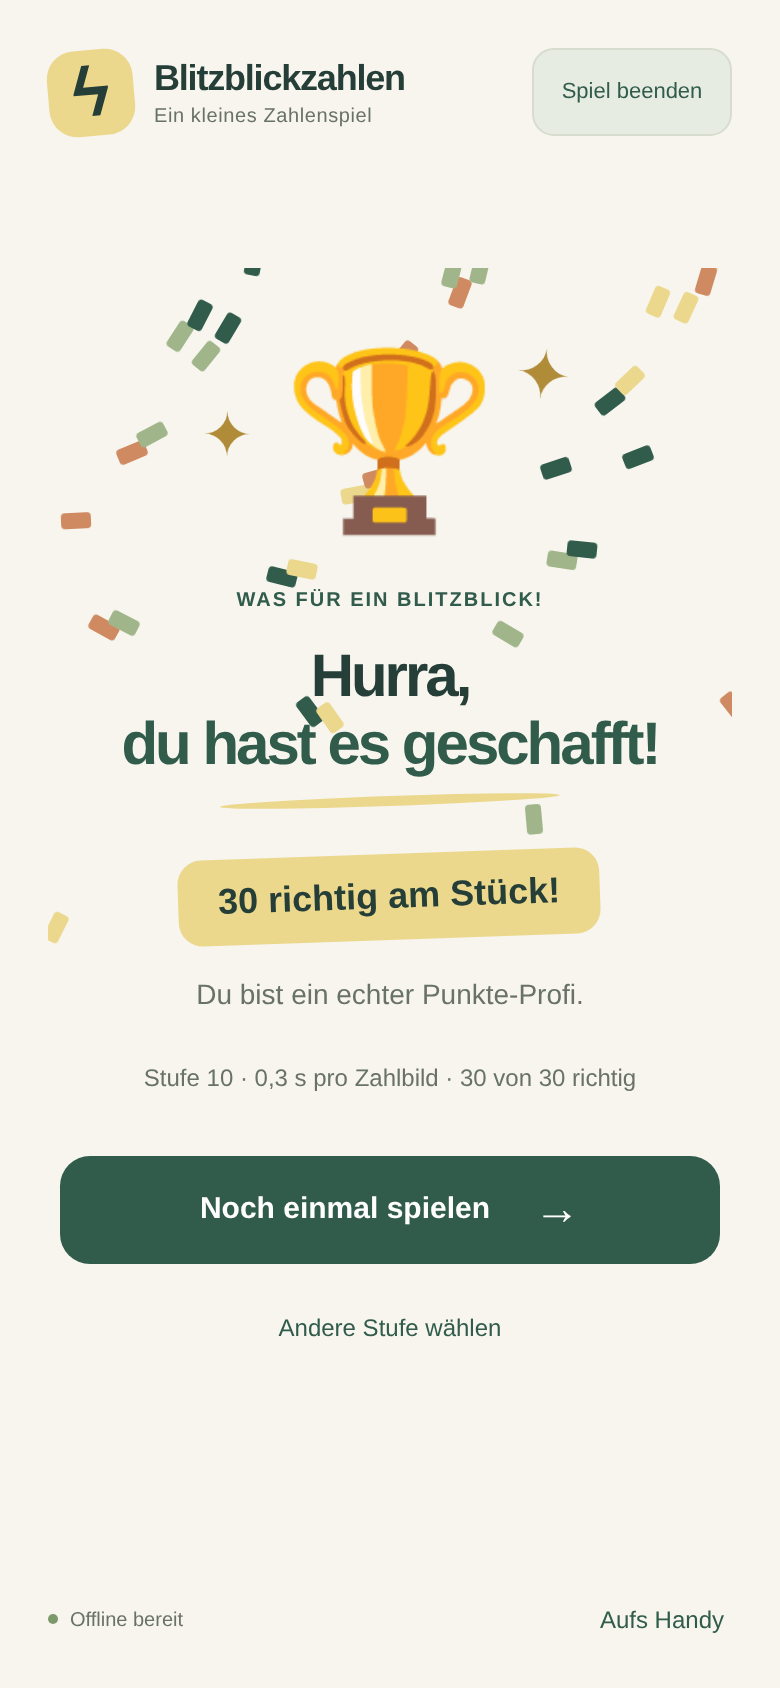
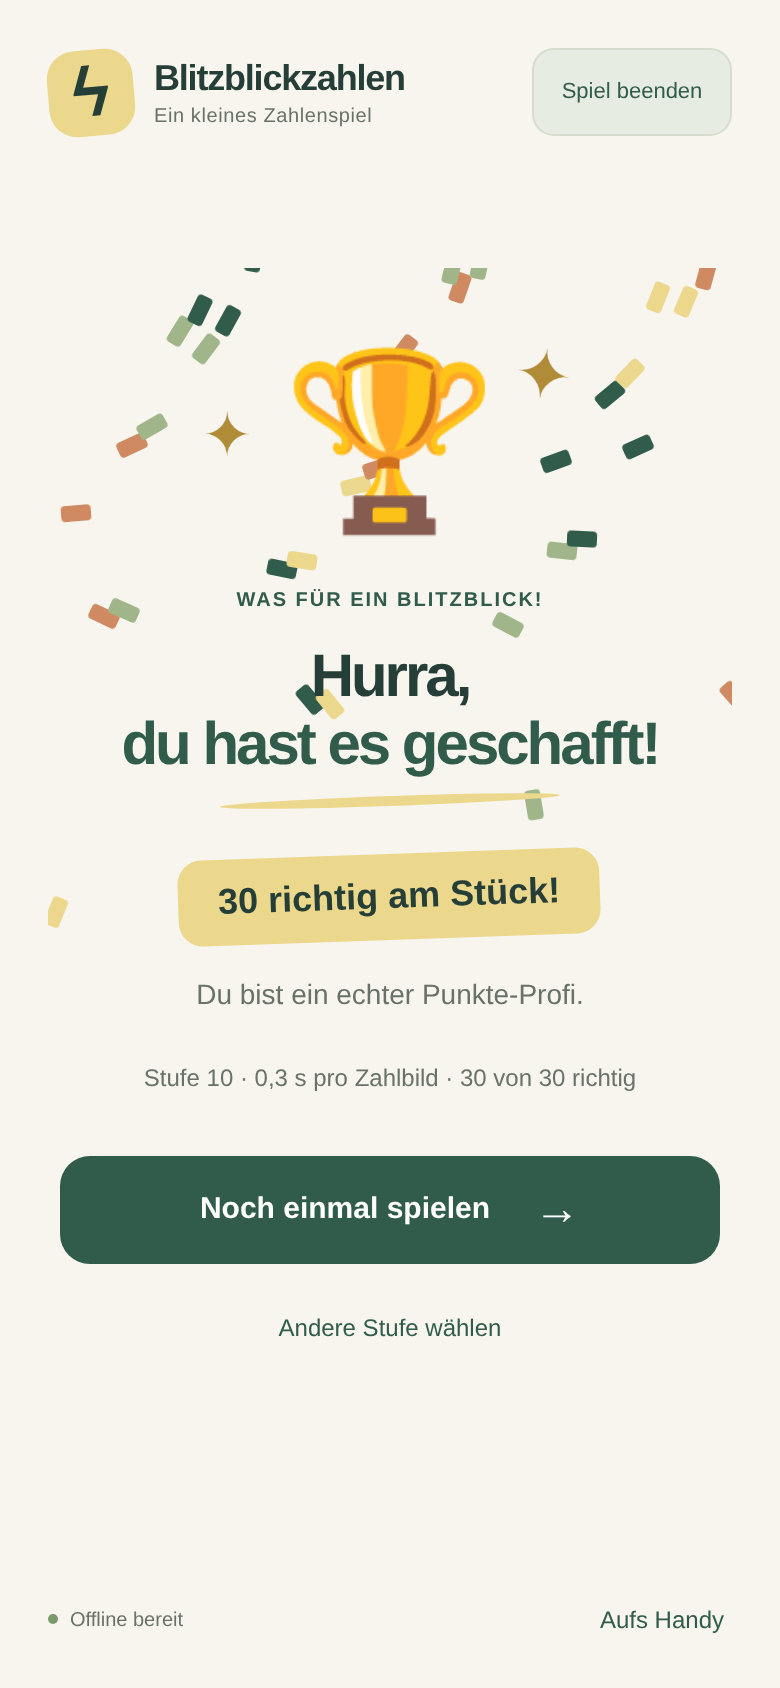
feat: allow early number answers and add zonk feedback

diff --git a/docs/blitzblickzahlen/audio.js b/docs/blitzblickzahlen/audio.js
@@ -22,9 +22,11 @@ export class GameAudio {
     this.unlock();
     if (!this.context || this.context.state !== 'running') return;
     this.stop();
-    // Bright rising chimes and a major chord, like a cheerful arcade jackpot.
+    // A descending brass-like "zonk", or bright chimes for a correct answer/win.
     // Each tuple contains frequency, start, duration and volume.
-    const notes = kind === 'win'
+    const notes = kind === 'wrong'
+      ? [[196, 0, .14, .12], [185, .15, .14, .12], [174.61, .30, .14, .12], [130.81, .45, .50, .15]]
+      : kind === 'win'
       ? [
         [523.25, 0, .16, .12], [659.25, .09, .16, .12], [783.99, .18, .16, .12], [1046.5, .27, .24, .13],
         [659.25, .48, .16, .12], [783.99, .57, .16, .12], [1046.5, .66, .16, .12], [1318.51, .75, .26, .13],
@@ -32,20 +34,30 @@ export class GameAudio {
         [1046.5, 1.52, .8, .075], [1318.51, 1.52, .8, .065], [1567.98, 1.52, .8, .065], [2093, 1.68, .85, .05],
       ]
       : [[880, 0, .12, .14], [1174.66, .09, .16, .13], [1567.98, .18, .2, .11]];
-    const voices = kind === 'win' ? [[1, .8, 'triangle'], [2, .2, 'sine']] : [[1, 1, 'sine']];
+    const voices = kind === 'wrong' ? [[1, .85, 'sawtooth'], [.5, .15, 'triangle']]
+      : kind === 'win' ? [[1, .8, 'triangle'], [2, .2, 'sine']] : [[1, 1, 'sine']];
     const start = this.context.currentTime + .01;
     for (const [frequency, offset, duration, volume] of notes) {
       for (const [harmonic, mix, type] of voices) {
         const oscillator = this.context.createOscillator();
         const gain = this.context.createGain();
         oscillator.type = type;
-        oscillator.frequency.value = frequency * harmonic;
+        oscillator.frequency.setValueAtTime(frequency * harmonic, start + offset);
+        if (kind === 'wrong') oscillator.frequency.exponentialRampToValueAtTime(frequency * harmonic * .7, start + offset + duration);
         gain.gain.setValueAtTime(0, start + offset);
         gain.gain.linearRampToValueAtTime(volume * mix, start + offset + .008);
         gain.gain.exponentialRampToValueAtTime(.0001, start + offset + duration);
-        oscillator.connect(gain);
+        let filter = null;
+        if (kind === 'wrong') {
+          filter = this.context.createBiquadFilter();
+          filter.type = 'lowpass';
+          filter.frequency.value = 700;
+          filter.Q.value = .7;
+          oscillator.connect(filter);
+          filter.connect(gain);
+        } else oscillator.connect(gain);
         gain.connect(this.context.destination);
-        oscillator.onended = () => { this.playing.delete(oscillator); oscillator.disconnect(); gain.disconnect(); };
+        oscillator.onended = () => { this.playing.delete(oscillator); oscillator.disconnect(); filter?.disconnect(); gain.disconnect(); };
         this.playing.add(oscillator);
         oscillator.start(start + offset);
         oscillator.stop(start + offset + duration + .025);

diff --git a/docs/blitzblickzahlen/app.js b/docs/blitzblickzahlen/app.js
@@ -51,6 +51,7 @@ form.addEventListener('change', updateSelection);
 
 function cancelPending() { clearTimeout(timer); cancelAnimationFrame(paintFrame); }
 function later(callback, delay) { cancelPending(); timer = setTimeout(callback, delay); }
+const canAnswer = () => phase === 'show' || phase === 'answer';
 
 function setPhase(next, title, hint, icon = '', copy = '') {
   phase = next;
@@ -62,8 +63,9 @@ function setPhase(next, title, hint, icon = '', copy = '') {
   $('feedback-icon').textContent = icon;
   $('feedback-copy').textContent = copy;
   $('resume-button').hidden = next !== 'paused';
-  for (const key of keys) key.disabled = next !== 'answer';
-  $('keypad-hint').textContent = next === 'answer' ? 'Tippe auf die passende Zahl.' : 'Erst schauen, dann tippen.';
+  for (const key of keys) key.disabled = !canAnswer();
+  $('keypad-hint').textContent = next === 'show' ? 'Du kannst jetzt schon antworten.'
+    : next === 'answer' ? 'Tippe auf die passende Zahl.' : 'Gleich kannst du wieder tippen.';
 }
 
 function updateProgress() {
@@ -78,7 +80,7 @@ function showPoints() {
   [...frame.children].forEach((cell, index) => cell.classList.toggle('filled', cells[index]));
   // The field becomes visible inside an animation frame; no fading shortens the flash.
   paintFrame = requestAnimationFrame(() => {
-    setPhase('show', 'Schau genau!', 'Merke dir, wie viele Punkte du siehst.');
+    setPhase('show', 'Schau genau!', 'Tippe, sobald du die Anzahl erkennst.');
     timer = setTimeout(askForAnswer, durationForLevel(level));
   });
 }
@@ -122,7 +124,9 @@ form.addEventListener('submit', (event) => {
 });
 
 function answer(number) {
-  if (phase !== 'answer') return;
+  if (!canAnswer()) return;
+  // An early answer ends the flash. Its old timeout must not reopen the keypad.
+  cancelPending();
   const result = session.answer(number);
   updateProgress();
   if (result.correct) {
@@ -130,13 +134,14 @@ function answer(number) {
     audio.play('correct');
   } else {
     setPhase('incorrect', 'Noch mal üben!', 'Beim nächsten Mal klappt’s.', '👎', `Es ${result.expected === 1 ? 'war 1 Punkt' : `waren ${result.expected} Punkte`}.`);
+    audio.play('wrong');
   }
   $('phase-title').focus({ preventScroll: true });
   later(result.finished ? celebrate : nextRound, result.correct ? 650 : 1200);
 }
 for (const key of keys) key.addEventListener('click', () => answer(Number(key.dataset.answer)));
 document.addEventListener('keydown', (event) => {
-  if (phase !== 'answer' || event.repeat || event.ctrlKey || event.altKey || event.metaKey) return;
+  if (!canAnswer() || event.repeat || event.ctrlKey || event.altKey || event.metaKey) return;
   if (/^[0-9]$/.test(event.key)) { event.preventDefault(); answer(event.key === '0' ? 10 : Number(event.key)); }
 });
 

diff --git a/docs/blitzblickzahlen/index.html b/docs/blitzblickzahlen/index.html
@@ -31,7 +31,7 @@
           <div class="welcome-copy">
             <p class="eyebrow"><span></span> Kleine Punkte. Großer Blick.</p>
             <h1 id="welcome-title">Ein Blick.<br><span>Wie viele sind’s?</span></h1>
-            <p class="intro">Schau dir die Punkte kurz an.<br>Tippe danach auf die passende Zahl.</p>
+            <p class="intro">Schau dir die Punkte kurz an.<br>Tippe auf die Zahl, sobald du sie erkennst.</p>
             <div class="preview" aria-hidden="true"><span class="mini-frame"><i></i><i></i><i></i><i></i><i></i><i></i><i></i><i></i><i></i><i></i></span><span class="preview-arrow">→</span><span class="preview-number">7</span><span class="preview-smile">☺</span></div>
           </div>
           <form id="setup-form" class="setup-card">
@@ -62,7 +62,7 @@
               <button id="resume-button" type="button" class="start-button" hidden>Weiter geht’s →</button>
             </div>
             <div class="answer-area">
-              <p id="keypad-hint" class="keypad-hint">Erst schauen, dann tippen.</p>
+              <p id="keypad-hint" class="keypad-hint">Gleich kannst du tippen.</p>
               <div id="keypad" class="keypad" role="group" aria-label="Wie viele Punkte waren es?">
                 <button type="button" data-answer="1" disabled>1</button><button type="button" data-answer="2" disabled>2</button><button type="button" data-answer="3" disabled>3</button>
                 <button type="button" data-answer="4" disabled>4</button><button type="button" data-answer="5" disabled>5</button><button type="button" data-answer="6" disabled>6</button>

diff --git a/docs/blitzblickzahlen/service-worker.js b/docs/blitzblickzahlen/service-worker.js
@@ -1,5 +1,5 @@
 /* Increase VERSION whenever any shipped game file changes. */
-const VERSION = '1.0.1';
+const VERSION = '1.0.2';
 const CACHE_PREFIX = `blitzblickzahlen:${self.registration.scope}:`;
 const CACHE_NAME = `${CACHE_PREFIX}${VERSION}`;
 const ASSETS = [

diff --git a/README.md b/README.md
@@ -57,15 +57,15 @@ Im Silbengenerator gibt es keinen Zeitdruck, keine Punkte, keine Werbung, keine 
 
 ## Blitzblickzahlen
 
-Ein Blitzblick-Spiel für Erstklässler: schwarze Punkte auf einem weißen Zehnerfeld kurz anschauen und anschließend die Anzahl wählen.
+Ein Blitzblick-Spiel für Erstklässler: schwarze Punkte auf einem weißen Zehnerfeld kurz anschauen und die Anzahl wählen, sobald sie erkannt wurde.
 
 ![Blitzblickzahlen im Handy-Hochformat](screenshots/blitzblickzahlen-spiel.png)
 
 1. Die Spieladresse in Chrome öffnen und eine der zehn Stufen wählen.
 2. **Los geht’s** antippen und das Handy hoch halten. Die App fordert Vollbild und Hochformat an, soweit der Browser es erlaubt.
 3. Nach „Mach dich bereit“ erscheint das Zahlbild. Das Feld wird zeilenweise von oben links nach unten rechts gefüllt: erst beide Punkte der obersten Reihe, dann die nächste Reihe. Bei ungeraden Zahlen steht der letzte Punkt links. Die Zahl selbst wird nicht verraten.
-4. Das ganze Feld verschwindet. Anschließend die Anzahl auf den Telefontasten **1–9** oder auf der mittigen Taste **10** wählen. Zum Antworten gibt es keine Zeitbegrenzung.
-5. Richtig: fröhlicher Ton und lächelndes Gesicht. Falsch: Daumen nach unten und die richtige Anzahl; die Serie beginnt wieder bei null.
+4. Die Anzahl auf den Telefontasten **1–9** oder auf der mittigen Taste **10** wählen: bereits während der Punkteanzeige oder danach. Eine frühe Antwort blendet das Feld sofort aus und beendet die Frage. Ohne Antwort verschwindet es nach der gewählten Zeit; die Tasten bleiben danach frei. Zum Antworten gibt es keine Zeitbegrenzung.
+5. Richtig: fröhlicher Ton und lächelndes Gesicht. Falsch: kurzer absteigender „Zonk“-Ton, Daumen nach unten und die richtige Anzahl; die Serie beginnt wieder bei null. **Ton aus** schaltet alle Rückmeldetöne stumm.
 6. Nach **30 richtigen Antworten hintereinander** gibt es einen Pokal, Konfetti und eine fröhliche Siegermelodie mit aufsteigenden Glöckchen und einem Dur-Akkord. Danach erneut spielen oder die Stufe wechseln.
 
 | Stufe | Sichtbare Dauer |
@@ -158,4 +158,4 @@ npm run check
 - [GitHub: Eine Pages-Website erstellen](https://docs.github.com/en/pages/getting-started-with-github-pages/creating-a-github-pages-site)
 - [MDN: Grenzen der Orientierungssperre](https://developer.mozilla.org/en-US/docs/Web/API/ScreenOrientation/lock)
 
-Games 1.1.0 · Silbengenerator 1.0.1 · Blitzblickzahlen 1.0.1 · 28. Oktober 2026
+Games 1.1.0 · Silbengenerator 1.0.1 · Blitzblickzahlen 1.0.2 · 28. Oktober 2026
